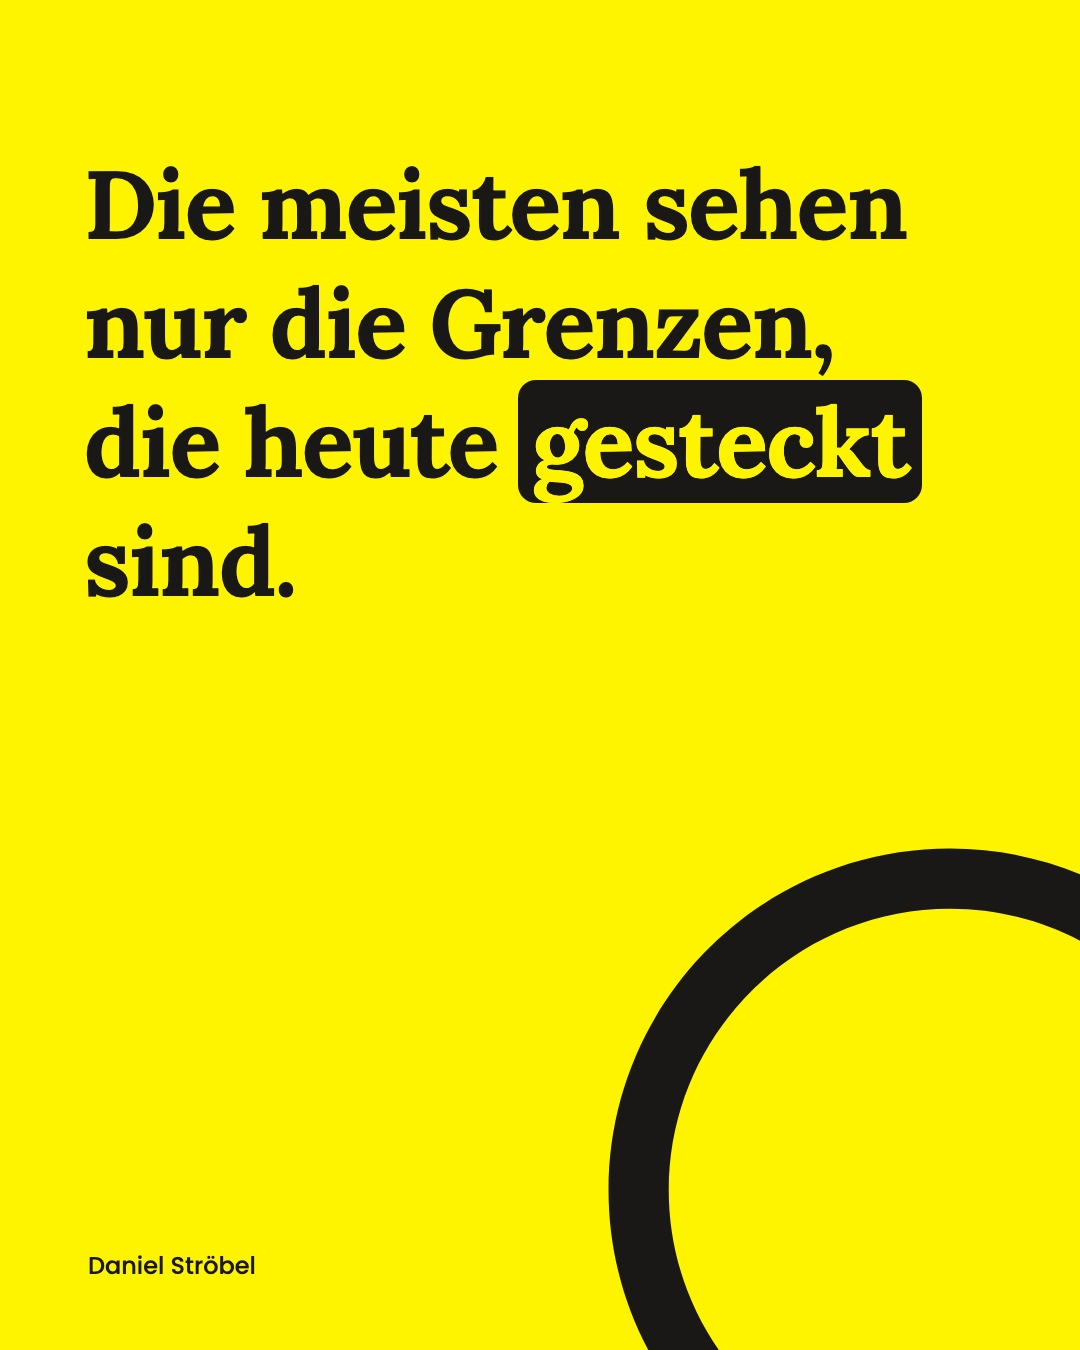
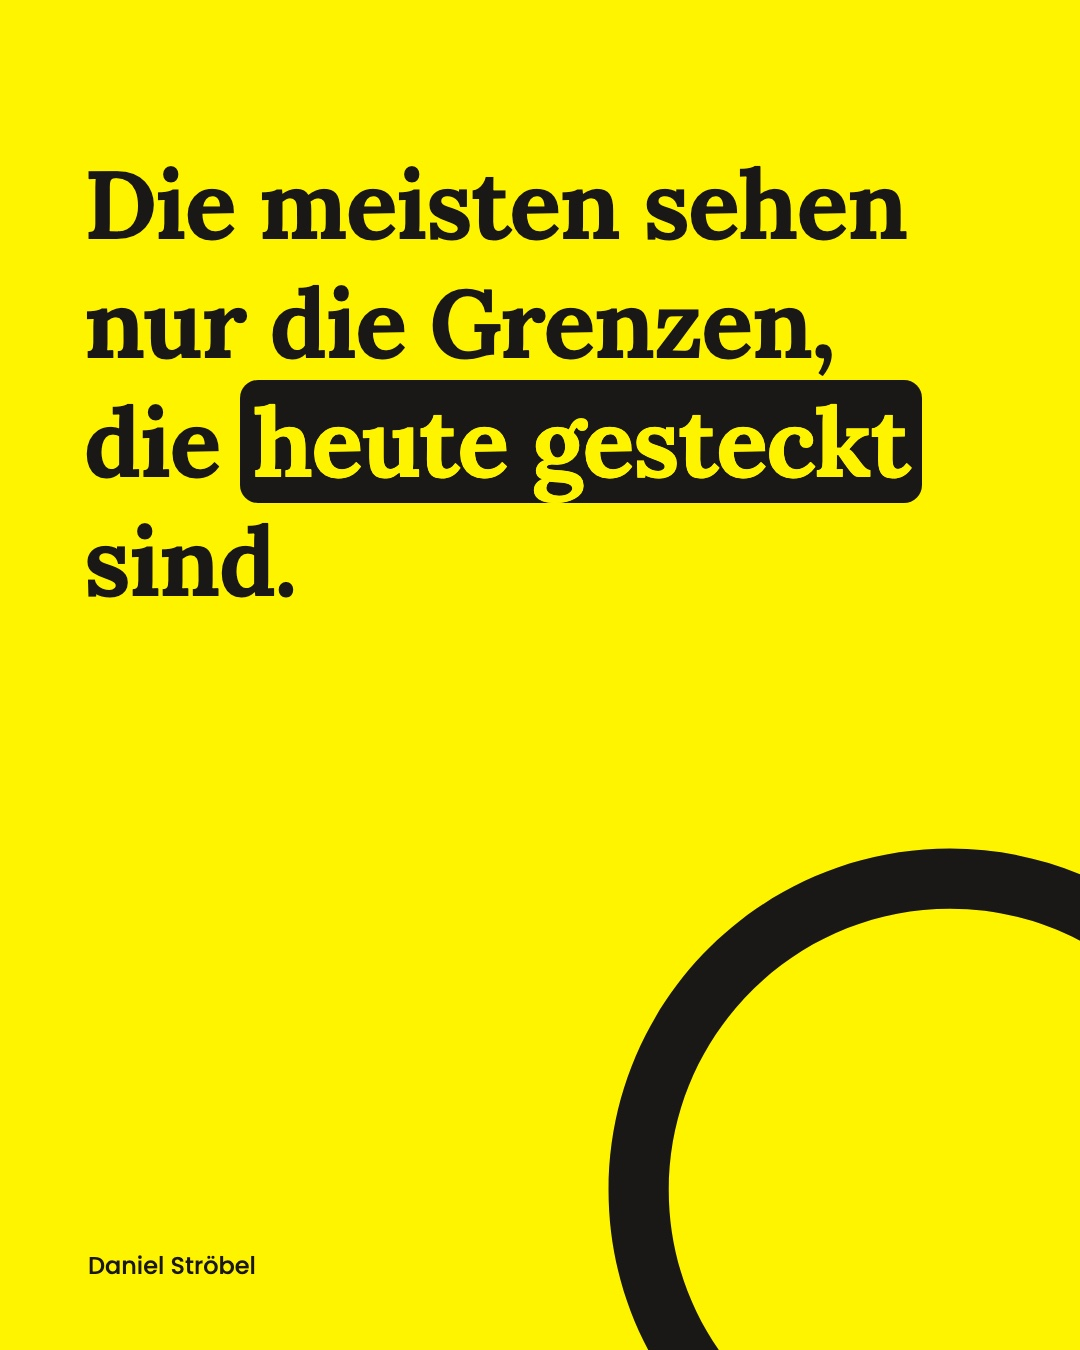
Posting 17.10.: „heute gesteckt“ gemeinsam hervorgehoben

Changed region(s): [[0.2139, 0.28, 0.4889, 0.3733]]

diff --git a/werkzeuge/medienkonzept/postings-vorlage.html b/werkzeuge/medienkonzept/postings-vorlage.html
@@ -697,7 +697,7 @@ html, body { width:1080px; background:#fff; }
 
 <section class="p foto-voll vollbild" id="rp07"><img src="/assets/projekte/medienkonzept/voll-e1.jpg" alt="" style="object-position:35% 40%;"><div class="verlauf" style="height:60%"></div><div class="nein-block"><p>Dein Vorstand gibt kein Zielbild vor?</p><b>Chance.</b></div></section>
 
-<section class="p gelbgrund" id="rp09"><p class="h" style="margin-top:60px;font-size:96px;line-height:1.24;max-width:900px;color:#1a1817">Die meisten sehen nur die Grenzen, die heute <span class="hl" style="background:#1a1817;color:#fff400">gesteckt</span> sind.</p><div class="an" style="width:700px;height:700px;right:-220px;bottom:-190px;color:#1a1817"><svg viewBox="0 0 232.44 232.44" aria-hidden="true"><path fill="currentColor" d="M116.22,22.83c51.49,0,93.39,41.89,93.39,93.39s-41.89,93.39-93.39,93.39S22.83,167.71,22.83,116.22,64.73,22.83,116.22,22.83M116.22,2.83C53.6,2.83,2.83,53.6,2.83,116.22s50.76,113.39,113.39,113.39,113.39-50.76,113.39-113.39S178.84,2.83,116.22,2.83h0Z"/></svg></div><p class="namezeile" style="color:#1a1817">Daniel Ströbel</p></section>
+<section class="p gelbgrund" id="rp09"><p class="h" style="margin-top:60px;font-size:96px;line-height:1.24;max-width:900px;color:#1a1817">Die meisten sehen nur die Grenzen, die <span class="hl" style="background:#1a1817;color:#fff400">heute gesteckt</span> sind.</p><div class="an" style="width:700px;height:700px;right:-220px;bottom:-190px;color:#1a1817"><svg viewBox="0 0 232.44 232.44" aria-hidden="true"><path fill="currentColor" d="M116.22,22.83c51.49,0,93.39,41.89,93.39,93.39s-41.89,93.39-93.39,93.39S22.83,167.71,22.83,116.22,64.73,22.83,116.22,22.83M116.22,2.83C53.6,2.83,2.83,53.6,2.83,116.22s50.76,113.39,113.39,113.39,113.39-50.76,113.39-113.39S178.84,2.83,116.22,2.83h0Z"/></svg></div><p class="namezeile" style="color:#1a1817">Daniel Ströbel</p></section>
 
 <section class="p schwarz" id="rp10"><span class="riesen-anf">„</span>
   <p class="zitat-w" style="font-size:70px">„Das habe ich noch nicht richtig verstanden. Können Sie mir das mal in Ihren eigenen Worten erklären?“</p><p class="zitat-quelle">— (m)ein Vorstand</p></section>

diff --git a/site/assets/projekte/medienkonzept/entwuerfe-seite.js b/site/assets/projekte/medienkonzept/entwuerfe-seite.js
@@ -3,7 +3,7 @@
   var $ = function (s, r) { return (r || document).querySelector(s); };
   var $$ = function (s, r) { return Array.prototype.slice.call((r || document).querySelectorAll(s)); };
   var P = window.MK_ENTWUERFE || [], FE = window.MK_FELDER || {};
-  var PFAD = '/assets/projekte/medienkonzept/postings/', BV = '?v=60';
+  var PFAD = '/assets/projekte/medienkonzept/postings/', BV = '?v=61';
   var raster = $('#mke-raster');
   if (!raster) return;
   function nr(i) { return (i + 1 < 10 ? '0' : '') + (i + 1); }

diff --git a/werkzeuge/medienkonzept/postings_vorlage_bauen.py b/werkzeuge/medienkonzept/postings_vorlage_bauen.py
@@ -710,7 +710,7 @@ teile += [
 
 # Redaktionsplan Wochenende 17./18.10.2026 (7-Tage-Rhythmus)
 teile += [
-    """<section class="p gelbgrund" id="rp09"><p class="h" style="margin-top:60px;font-size:96px;line-height:1.24;max-width:900px;color:#1a1817">Die meisten sehen nur die Grenzen, die heute <span class="hl" style="background:#1a1817;color:#fff400">gesteckt</span> sind.</p>%s%s</section>""" % (anschnitt(O, 700, -220, -190, "#1a1817"), NAME.replace('class="namezeile"', 'class="namezeile" style="color:#1a1817"')),
+    """<section class="p gelbgrund" id="rp09"><p class="h" style="margin-top:60px;font-size:96px;line-height:1.24;max-width:900px;color:#1a1817">Die meisten sehen nur die Grenzen, die <span class="hl" style="background:#1a1817;color:#fff400">heute gesteckt</span> sind.</p>%s%s</section>""" % (anschnitt(O, 700, -220, -190, "#1a1817"), NAME.replace('class="namezeile"', 'class="namezeile" style="color:#1a1817"')),
     """<section class="p schwarz" id="rp10"><span class="riesen-anf">„</span>
   <p class="zitat-w" style="font-size:70px">„Das habe ich noch nicht richtig verstanden. Können Sie mir das mal in Ihren eigenen Worten erklären?“</p><p class="zitat-quelle">— (m)ein Vorstand</p></section>""",
 ]

diff --git a/werkzeuge/medienkonzept/entwuerfe_seite_bauen.py b/werkzeuge/medienkonzept/entwuerfe_seite_bauen.py
@@ -16,7 +16,7 @@ import datetime, json, os, sys, zipfile
 HIER = os.path.dirname(os.path.abspath(__file__))
 SITE = os.path.abspath(os.path.join(HIER, "..", "..", "site"))
 MK = os.path.join(SITE, "assets", "projekte", "medienkonzept")
-V = "60"  # Versionsnummer für CSS/JS
+V = "61"  # Versionsnummer für CSS/JS
 
 # Ergänzungen je Beitrag (Supabase-ID → Darstellung)
 EXTRA = {
